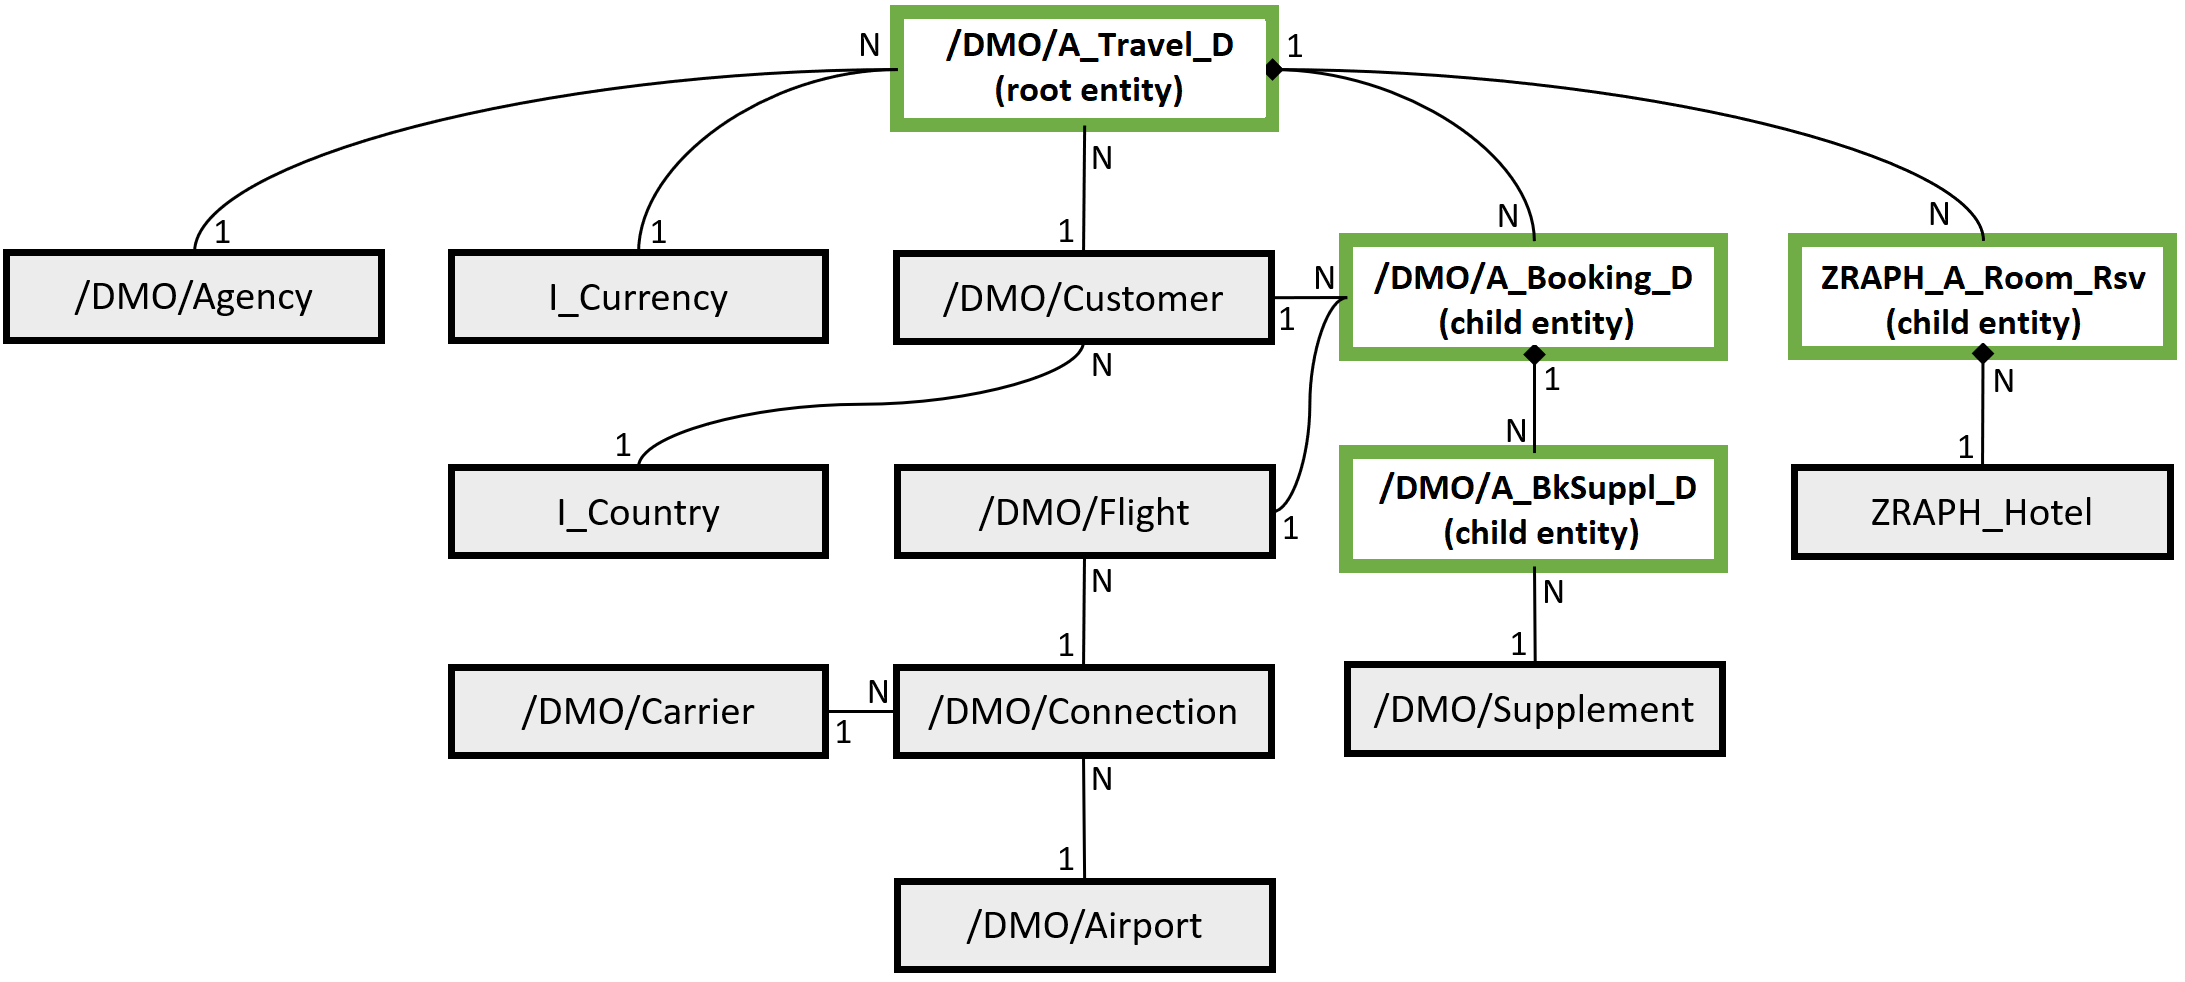
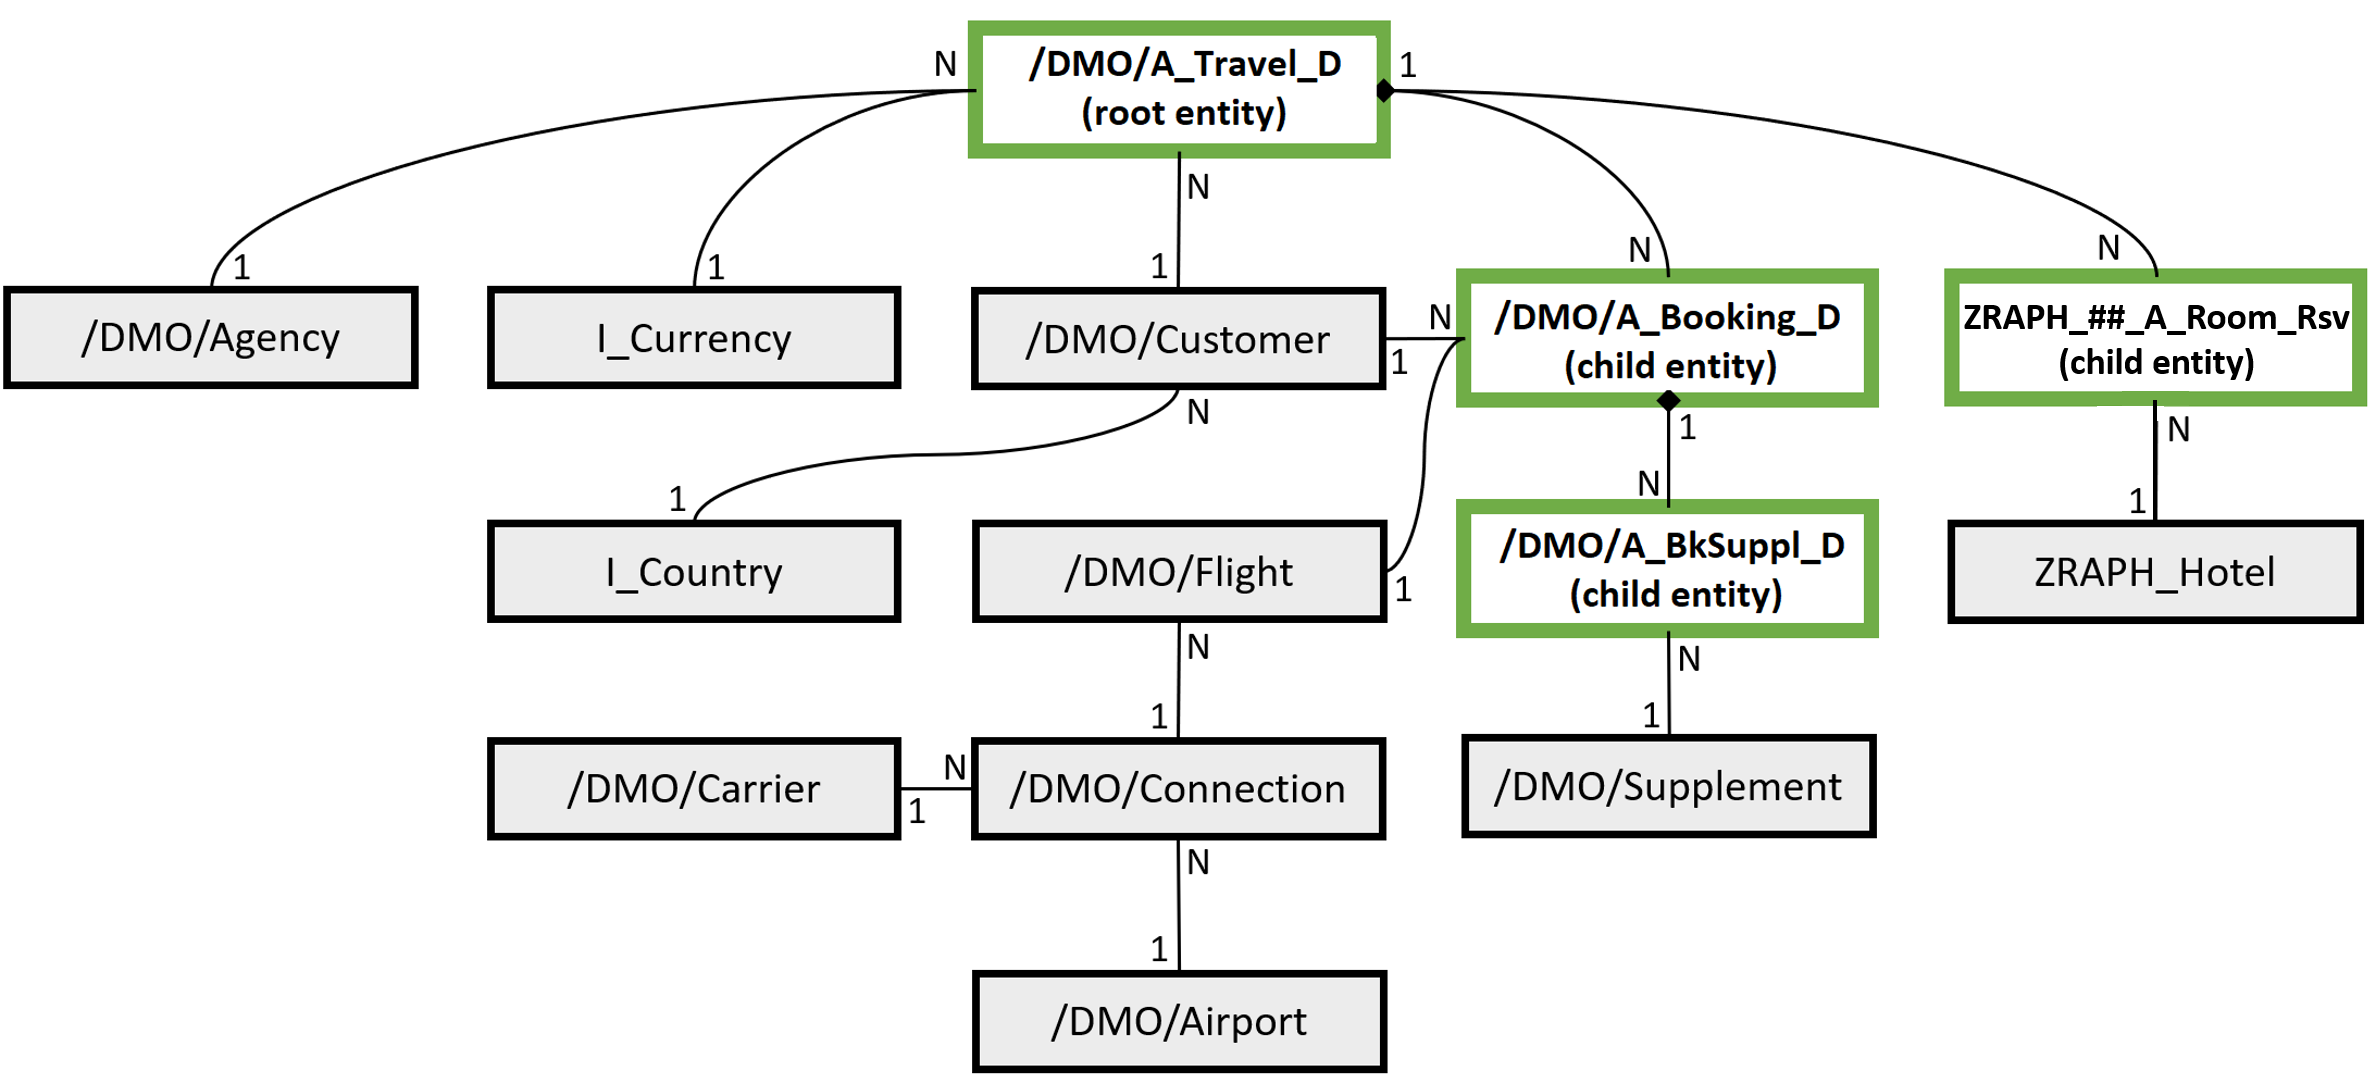
Finalized parts 1 & 2

diff --git a/part1/README.md b/part1/README.md
@@ -1,12 +1,12 @@
-# Readme file for Part 1 - Introduction
+# Part 1 - Introduction
 ## Overall description and high-level architecture
 In this course we’ll create a SAP Fiori application with the help of a Virtual Data Model using ABAP CDS, Behavior Definitions & Implementations for the transactional behavior and OData via Service Definition & Binding for publishing our data from the BackEnd.
 
-The finished Fiori app will display travel information (one travel possibly consisting of several flight bookings and room reservations). The main screen will list all travels stored in the database. Also, it allows to open an individual travel with its information shown in an object page and the associated bookings listed as well. From there you can navigate to the object page of an individual booking to see its data in detail.
+The finished Fiori app will display travel information (one travel possibly consisting of several flight bookings and room reservations). The main screen will list all travels stored in the database. Also, it allows to open an individual travel with its information shown in an object page and the associated bookings and room reservations listed as well. From there you can e.g. navigate to the object page of an individual booking to see its data and associated booking supplements in detail.
 
-The app will support transactional functionality (CRUD operations) with draft capabilities along with search and filtering. 
+The app will support transactional functionality (CRUD operations) using draft capabilities along with search and filtering. 
 
-The following image should give you a high-level overview, which types of development objects are involved within the implementation of a transactional app in the context of the ABAP RESTful Application Programming Model.
+The following image should give you a high-level overview, which types of development objects are involved within the implementation of a transactional app in the context of the ABAP RESTful Application Programming Model (RAP).
 
 ![(© SAP SE)](images/image1_1.png)
 
@@ -20,7 +20,7 @@ The detailed view (Object Page) of a travel contains information about itself an
 
 ![alt](images/image1_3.png)
 
-The detailed view (Object Page) of the bookings should provide its data and allow users to edit that information as well. Same goes for the room reservations object page.
+The detailed view (Object Page) of the bookings should provide its data (and booking supplements) while allowing users to edit that information as well. Same goes for the room reservations object page.
 
 ![alt](images/image1_4.png)
 
@@ -64,7 +64,8 @@ As you can see in the diagram below, those tables also have associations to othe
 
 ![alt](images/image1_5.png)
 
-With SAP S/4HANA 2020 additional supported scenarios within the ABAP RESTful Application Programming Model were introduced. The app created within this hands-on will be based on the scenario managed/draft. In comparision with the unmanaged scenario, where the developer would have to implement the basic CUD operations, in the managed scenario the CUD operations will be provided out of the box by RAP framework. Draft-enabled business objects persist the state of the transactional buffer after every transaction on a designated draft database table. This allows the end user to stop and continue work processes at any point in time, even with inconsistent data. For more detailed information about the draft concept, see [Draft](https://help.sap.com/viewer/fc4c71aa50014fd1b43721701471913d/202009.001/en-US/a81081f76c904b878443bcdaf7a4eb10.html).
+With SAP S/4HANA 2020 additional supported scenarios within the ABAP RESTful Application Programming Model were introduced. The app created within this hands-on will be based on the scenario managed/draft. In comparision with the unmanaged scenario, where the developer would have to implement the basic CUD (create, update, delete) operations, in the managed scenario those operations will be provided out of the box by the RAP framework. Draft-enabled business objects persist the state of the transactional buffer after every transaction on a designated draft database table. This allows the end user to stop and continue work processes at any point in time, even with inconsistent data. For more detailed information about the draft concept, see [Draft](https://help.sap.com/viewer/fc4c71aa50014fd1b43721701471913d/202009.001/en-US/a81081f76c904b878443bcdaf7a4eb10.html).
+
 ## Next step
 [2. Creating the Database Table for Room Reservation ](../part2/README.md)
 

diff --git a/part2/README.md b/part2/README.md
@@ -1,6 +1,9 @@
-# Readme file for Part 2 - Creating the Database Table for Room Reservation
+# Part 2 - Creating the Database Table for Room Reservation
+## Special note for the ERP Praktikum
+As you've already created the database table before in the ABAP Dictionary section you can simply skip this part of the hands-on. Next, please continue with [3. Creating the Virtual Data Model (VDM) via ABAP CDS Views](../part3/3a.md).
+
 ## Requirement
-You will now create the database table `Z##_A_ROOM_RSV` (where `##` are the initials of your name), to store the room reservation data. This will be the only child node which must be created by you as extension of the existing Flight reference model from `/DMO/` namespace.
+You will now create the database table `ZRAPH_##_A_ROOM_RSV` (where `##` are the initials of your name), to store the room reservation data. This will be the only child node which must be created by you as extension of the existing Flight reference model from `/DMO/` namespace.
 
 ## Technical information
 The structure of the database table should be as follow:
@@ -31,8 +34,7 @@ Explanation:
 * `LOCAL_LAST_CHANGED_AT` is used as standard administrative field
 
 #### Solution
-
-* [DBTAB_z##_a_room_rsv](sources/z_a_room_rsv.txt)
+[zraph_##_a_room_rsv](sources/z_a_room_rsv.txt)
 
 ## Next step
 [3. Creating the Virtual Data Model (VDM) via ABAP CDS Views](../part3/3a.md)
